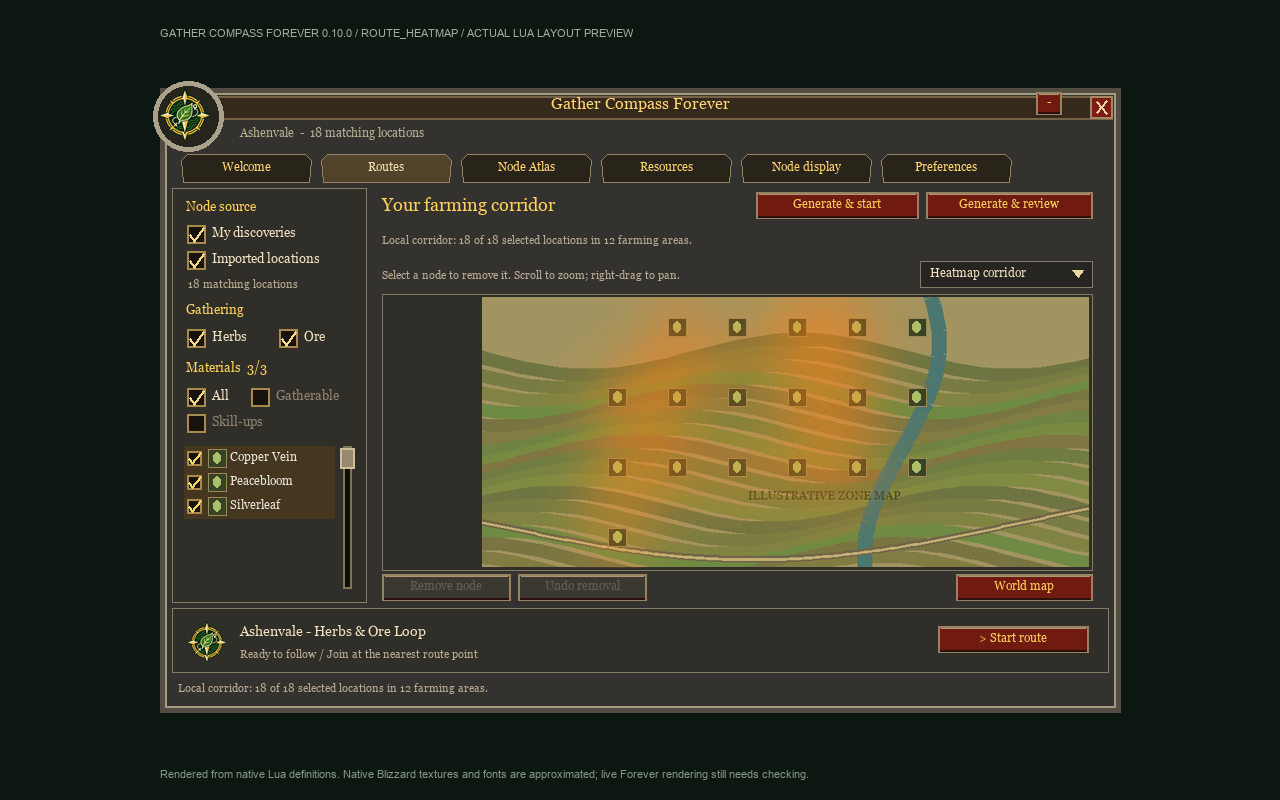
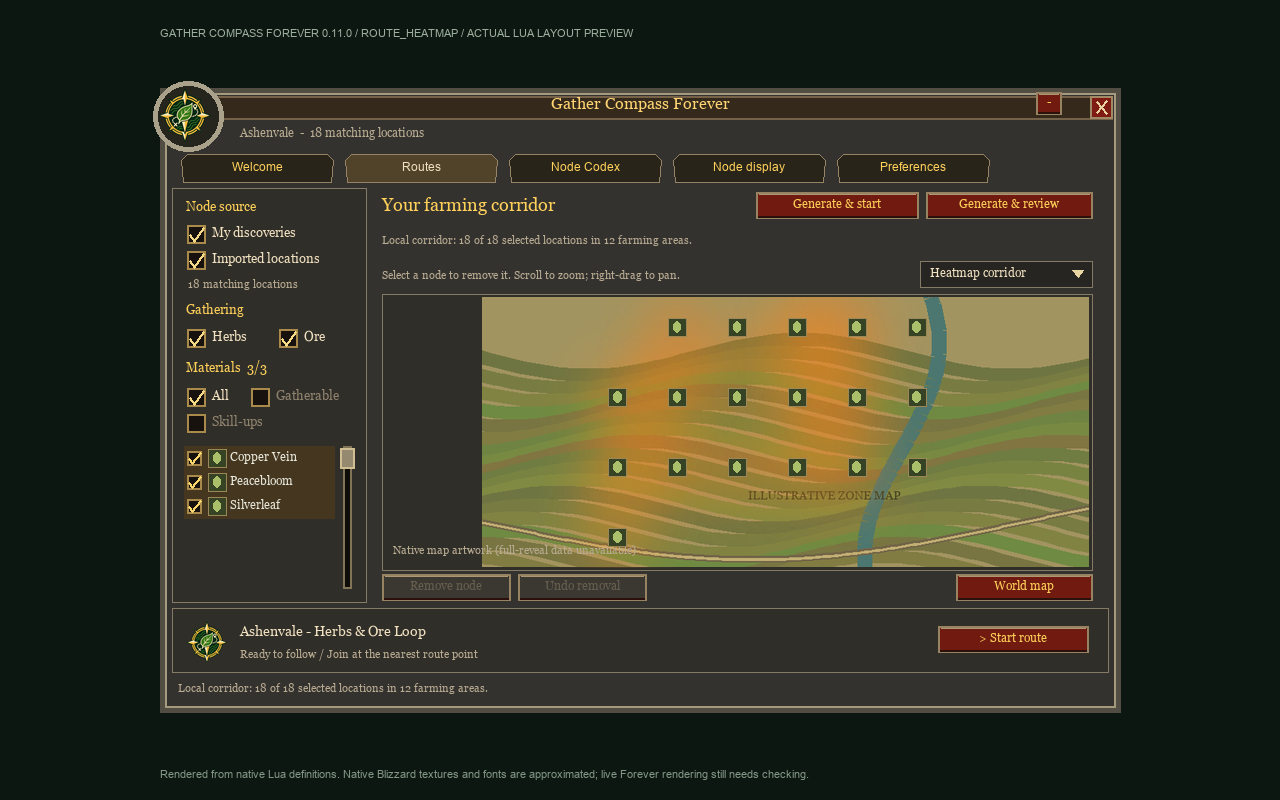
Document Node Codex and map readability improvements for 0.11.0

diff --git a/tests/package.py b/tests/package.py
@@ -1,7 +1,7 @@
 from pathlib import Path
 import zipfile
 root = Path(__file__).resolve().parents[1]
-path = root / 'dist/GatherCompassForever-0.10.0.zip'
+path = root / 'dist/GatherCompassForever-0.11.0.zip'
 assert path.is_file(), 'Installable ZIP missing'
 with zipfile.ZipFile(path) as z:
     names = z.namelist()
@@ -11,7 +11,7 @@ with zipfile.ZipFile(path) as z:
     metadata = dict(line[3:].split(': ', 1) for line in toc.splitlines() if line.startswith('## '))
     assert metadata['Title'] == 'Gather Compass Forever'
     assert metadata['SavedVariables'] == 'GatherCompassForeverDB'
-    assert metadata['Version'] == '0.10.0'
+    assert metadata['Version'] == '0.11.0'
     assert metadata['X-License'] == 'MIT'
     assert metadata['IconTexture'] == r'Interface\AddOns\GatherCompassForever\Media\Icon'
     for texture in ['Icon', 'LogoSheet', 'EmptyEmblem', 'NodeRing', 'NodeSquare', 'GuideArrow', 'HeatBlob', 'MinimapMasks']:
@@ -22,6 +22,11 @@ with zipfile.ZipFile(path) as z:
     for file in ['LICENSE','CHANGELOG.md','CONTRIBUTING.md','NOTICE.md','README.md','Libs/LICENSE.txt','Libs/HereBeDragons-LICENSE.txt','Libs/OpenMap-Reveal-LICENSE.txt','Media/Icon.tga','Media/Header.tga']:
         assert 'GatherCompassForever/' + file in names
     assert z.read('GatherCompassForever/LICENSE').startswith(b'MIT License')
+    assert b'Copyright (c) 2026 OpenMap contributors' in z.read('GatherCompassForever/Libs/OpenMap-Reveal-LICENSE.txt')
+    assert 'GatherCompassForever/Data/MapReveal.lua' in names
+    assert 'GatherCompassForever/AtlasView.lua' not in names
+    mask=z.read('GatherCompassForever/Media/MinimapMasks.tga')
+    assert mask[2]==2 and mask[16]==32 and int.from_bytes(mask[12:14],'little')==256
     for path in (root / 'docs/images').glob('*.png'):
         assert 'GatherCompassForever/' + path.relative_to(root).as_posix() in names
     for marker in ['NodeRing', 'NodeSquare']:

diff --git a/tools/render_ui_preview.py b/tools/render_ui_preview.py
@@ -139,7 +139,7 @@ def render(scene):
         resolving.remove(k);boxes[k]=r;return r
     def visible(o):return o['shown'] is not False and (o['parent'] is None or ident(o['parent'])==0 or visible(o['parent']))
     im=Image.new('RGBA',(1280,800),'#0c1711');d=ImageDraw.Draw(im)
-    d.text((160,27),'GATHER COMPASS FOREVER 0.10.0 / '+scene.upper()+' / ACTUAL LUA LAYOUT PREVIEW',font=ImageFont.truetype('C:/Windows/Fonts/arial.ttf',11),fill='#9cae9d')
+    d.text((160,27),'GATHER COMPASS FOREVER 0.11.0 / '+scene.upper()+' / ACTUAL LUA LAYOUT PREVIEW',font=ImageFont.truetype('C:/Windows/Fonts/arial.ttf',11),fill='#9cae9d')
     fonts={}; text_report=[]
     def font(o):
         size=int(o['fontSize'] or 12);family='georgia.ttf' if 'FRIZ' in (o['fontPath'] or '') else 'arial.ttf';key=(family,size)

diff --git a/tools/package.py b/tools/package.py
@@ -14,7 +14,7 @@ for name in files:
     assert (root / name).is_file(), f'Missing package file: {name}'
 dist = root / 'dist'
 dist.mkdir(exist_ok=True)
-path = dist / 'GatherCompassForever-0.10.0.zip'
+path = dist / 'GatherCompassForever-0.11.0.zip'
 with zipfile.ZipFile(path, 'w', zipfile.ZIP_DEFLATED) as z:
     for name in files:
         z.write(root / name, 'GatherCompassForever/' + name)

diff --git a/README.md b/README.md
@@ -14,7 +14,7 @@ where resources grow, build farming routes and follow a clear in-game guide arro
 ![Tests](https://github.com/Red463/GatherCompassForever/actions/workflows/ci.yml/badge.svg)
 ![MIT license](https://img.shields.io/badge/license-MIT-green.svg)
 
-**Current version:** 0.10.0 ? **Client interface:** 16001 ? **Command:** `/gcf`
+**Current version:** 0.11.0 ? **Client interface:** 16001 ? **Command:** `/gcf`
 
 ## What it does
 
@@ -28,17 +28,19 @@ where resources grow, build farming routes and follow a clear in-game guide arro
 - **Generate a local corridor.** Start immediately, or review a large zone map and
   remove individual nodes with undo. No save step is needed.
 - **Follow the path.** Choose thin lines or a soft heatmap corridor on the world map
-  and route sketch. A smooth gold arrow guides the same route. Optionally show the next resource, waypoint progress and lap number.
-- **Explore resources.** Browse a square item grid and view zones ranked by known
-  node count, source-specific skill requirements and personal gather history.
-- **Tune map markers.** Use icons on the world map and icons, rings or squares on
-  the minimap. Hide nearby minimap icons while retaining hollow outlines.
+  and route sketch, plus minimap heat. A smooth gold arrow guides the same route. Optionally show the next resource, waypoint progress and lap number.
+- **Explore Node Codex.** Browse skill-coloured item tiles, compare zones and skill
+  requirements, and review a resource route or guide to a nearby known location.
+- **Read crowded maps.** Shared count badges group overlapping icons; hover for a
+  resource breakdown. Minimap outlines retain their original spawn positions.
+- **Tune map markers.** Separate World map/Minimap pages control sizes, opacity,
+  grouping and nearby-icon hiding without losing hollow outlines.
 - **Review without losing history.** Removals affect the current plan only. Existing
   saved routes and node history are preserved. A minimap badge opens the panel.
 
 ## Install
 
-1. Download `GatherCompassForever-0.10.0.zip` from
+1. Download `GatherCompassForever-0.11.0.zip` from
    [Releases](https://github.com/Red463/GatherCompassForever/releases/latest).
    Choose the addon ZIP asset rather than GitHub's automatic **Source code** ZIP.
 2. Close WoW and extract the `GatherCompassForever` folder into your Forever
@@ -75,7 +77,8 @@ in-game screenshots; actual Forever textures and rendering can differ.
 ### Welcome and shared filters
 
 Welcome introduces the workflow, imports all available zones and shows import status.
-It appears on first use; guide-arrow clicks still open Routes directly.
+It appears on first use; **Choose materials** in step 2 opens the Routes checkboxes.
+Guide-arrow clicks still open Routes directly.
 
 ![Welcome tab with introduction, all-zone import and quick navigation](docs/images/welcome.png)
 
@@ -89,29 +92,52 @@ scrolling and a scrollbar, with icons and skill-coloured names.
 Choose materials, then use **Generate & start** or **Generate & review**. Click a node
 to select it, then **Remove node** to update the corridor. **Undo removal** restores
 it. Scroll to zoom and right-drag empty map space to pan. Dim icons are outside the
-current local circuit; counts show the included and omitted locations.
+current local circuit; counts show the included and omitted locations. Revealed
+map overlays are loaded from the client using attributed MIT metadata. If an art ID
+is not covered, the sketch falls back to native explored artwork. No OpenMap addon
+is required.
 
 ![Large map-backed route review with node selection, removal and undo](docs/images/routes.png)
 
-### Resource catalogue and details
+### Overlapping nodes
 
-Filter the full supported item catalogue by type or name. Click an item to compare
-its known zones and read gathering requirements. Items without known locations
-remain visible so you can plan what to seek next.
+Badges show the number of known locations, including different resources. Hover
+for per-resource counts and skill colours. Zoom in to separate nearby locations.
+In the Routes sketch, click a badge and choose one member before using **Remove node**;
+the other members and stored history stay intact. Grouping can be disabled per map.
 
-![Resources tab with square item buttons and type/name filters](docs/images/resources.png)
+![Grouped review markers with an individual-location chooser](docs/images/grouped-nodes.png)
 
-![Resource details with skill guidance, personal history and ranked zones](docs/images/resource-details.png)
+### Node Codex
+
+Node Codex combines the previous Atlas and Resources pages. Browse the full supported
+catalogue with type, skill, source and zone filters plus name search. Tiles show the
+best skill-up state among currently gatherable sources; details show every source's
+own requirement and colour. Unknown data stays neutral.
+
+Codex browsing does not rewrite Routes checkboxes. Current-zone route/nearest actions
+use the selected resource intersected with those checkboxes, and preserve active
+guidance until it is stopped. Coordinate tables and the redundant Welcome button
+have been removed. Items without location data remain in the default full catalogue.
+
+![Node Codex with skill-coloured tiles and browsing filters](docs/images/node-codex.png)
+
+![Codex skill guidance, history, ranked zones and current-zone actions](docs/images/codex-details.png)
 
 ### Heatmap corridor
 
 Select **Heatmap corridor** above the route sketch to replace the lines with a soft,
 warm band through the generated farming areas. It is a route view, rather than a
 live resource scanner. The arrow follows the same points; switching views does not
-regenerate the route. Minimap route lines are hidden in this view, while resource
-markers and the destination marker remain.
+regenerate the route. Heat also appears on the minimap, replacing its route lines,
+while resource markers and the destination marker remain. Its bounded transparent
+field leaves clearance around the player and known resources. Native unknown live
+blips are not enumerable, so check tracking contrast in your client. Unsupported
+custom minimap shapes hide heat rather than spilling outside the map.
 
 ![Soft density corridor over an illustrative map](docs/images/route-heatmap.png)
+
+![Minimap heat with simulated native tracking dots and player clearance](docs/images/minimap-heat.png)
 
 ### Guide arrow
 
@@ -140,11 +166,10 @@ plan. Stopping or completing guidance clears them. Generation starts at the near
 selected local node and builds connected farming areas, rather than forcing a whole
 zone into one circuit. The displayed counts show when other areas are omitted.
 
-The **Node Atlas** provides per-resource location browsing, zone comparisons,
-resource-specific route review and nearest-location guidance. The separate
-**Resources** tab provides the full item catalogue, independent of your route filters.
-Clicking a ranked zone temporarily focuses that resource on the world map, subject
-to your shared checkbox filters. Closing the map restores its usual display.
+**Node Codex** offers ranked zones, personal history, skill-coloured sources and
+current-zone resource guidance in one page. Clicking a ranked zone focuses that
+resource on the world map, subject to shared checkbox filters. Closing the map
+restores its usual display.
 
 ## Settings and commands
 
@@ -173,11 +198,16 @@ known orange, yellow and green materials across matching known zones once. It ex
 grey, too-difficult and unknown resources, and you can edit the result afterward.
 The selected materials do not change automatically when your profession skill rises.
 
-**Node display** controls marker appearance, difficulty colours, icon-hide distance
-and minimap route visibility. Its three opacity sliders independently adjust
-world-map icons, minimap icons and minimap outlines from 0% to 100%. Changes apply
-immediately and are remembered. Navigation markers keep their own appearance.
-![Node appearance, difficulty colours and independent opacity controls](docs/images/node-display.png)
+**Node display** has separate **World map** and **Minimap** pages. Configure icon
+sizes/opacities and grouping on each map; minimap outlines have their own size and
+opacity. The nearby-hide distance affects icons/counts, while hollow outlines stay
+at their real known positions. **Show route overlay** and its strength slider apply
+to both Lines and Heatmap, independently of node-marker visibility. Heat uses a
+bounded strength to keep it transparent. Existing appearance values are preserved.
+
+![World-map marker controls and preview](docs/images/node-display.png)
+
+![Minimap markers, tracking clearance and route-overlay controls](docs/images/node-display-mini.png)
 
 **Preferences** controls arrival distance, arrow scale,
 optional labels and minimap-button visibility. Use `/gcf` to restore the minimap
@@ -232,7 +262,8 @@ requests and needs no external service.
 ## License
 
 Gather Compass Forever's original code, documentation and project artwork are
-licensed under the [MIT License](LICENSE). Bundled third-party libraries retain
+licensed under the [MIT License](LICENSE). The pinned OpenMap reveal metadata is
+also MIT and retains its own notice. Bundled third-party libraries retain
 their original licenses; see [Third-party notices](NOTICE.md).
 
 World of Warcraft and referenced native UI artwork belong to Blizzard Entertainment.

diff --git a/CHANGELOG.md b/CHANGELOG.md
@@ -1,5 +1,17 @@
 # Changelog
 
+## 0.11.0
+
+- Group overlapping world-map, minimap and review icons into shared count badges with coloured resource breakdowns. Keep minimap outlines at their exact spawn coordinates.
+- Add an individual member chooser for grouped review nodes, preserving single-node removal and undo.
+- Combine Atlas and Resources into Node Codex: full skill-coloured catalogue, type/skill/source/zone browsing, ranked zones, history and guarded local route/nearest actions; remove coordinate lists and the redundant Welcome button.
+- Simplify Node display into full-width World map and Minimap pages, with previews and migrated appearance values.
+- Make Welcome step 2 open Routes with Choose materials.
+- Add structured skill-coloured panel tooltips for materials, resources and grouped nodes.
+- Show active heat corridors on the minimap with bounded opacity, known-node/player clearance, standard-shape masks and effective rotation support. Stop/completion clears the overlay.
+- Reveal supported Routes map artwork using pinned attributed MIT metadata from OpenMap; load textures from the installed client and fall back to native explored art for unsupported map-art IDs.
+- Keep existing storage, routing/session ownership, shared filters, arrow behaviour and MIT licensing. No new addon dependency or copied client artwork.
+
 ## 0.10.0
 
 - Add one-time Gatherable material selection, including eligible grey resources and capped professions.
